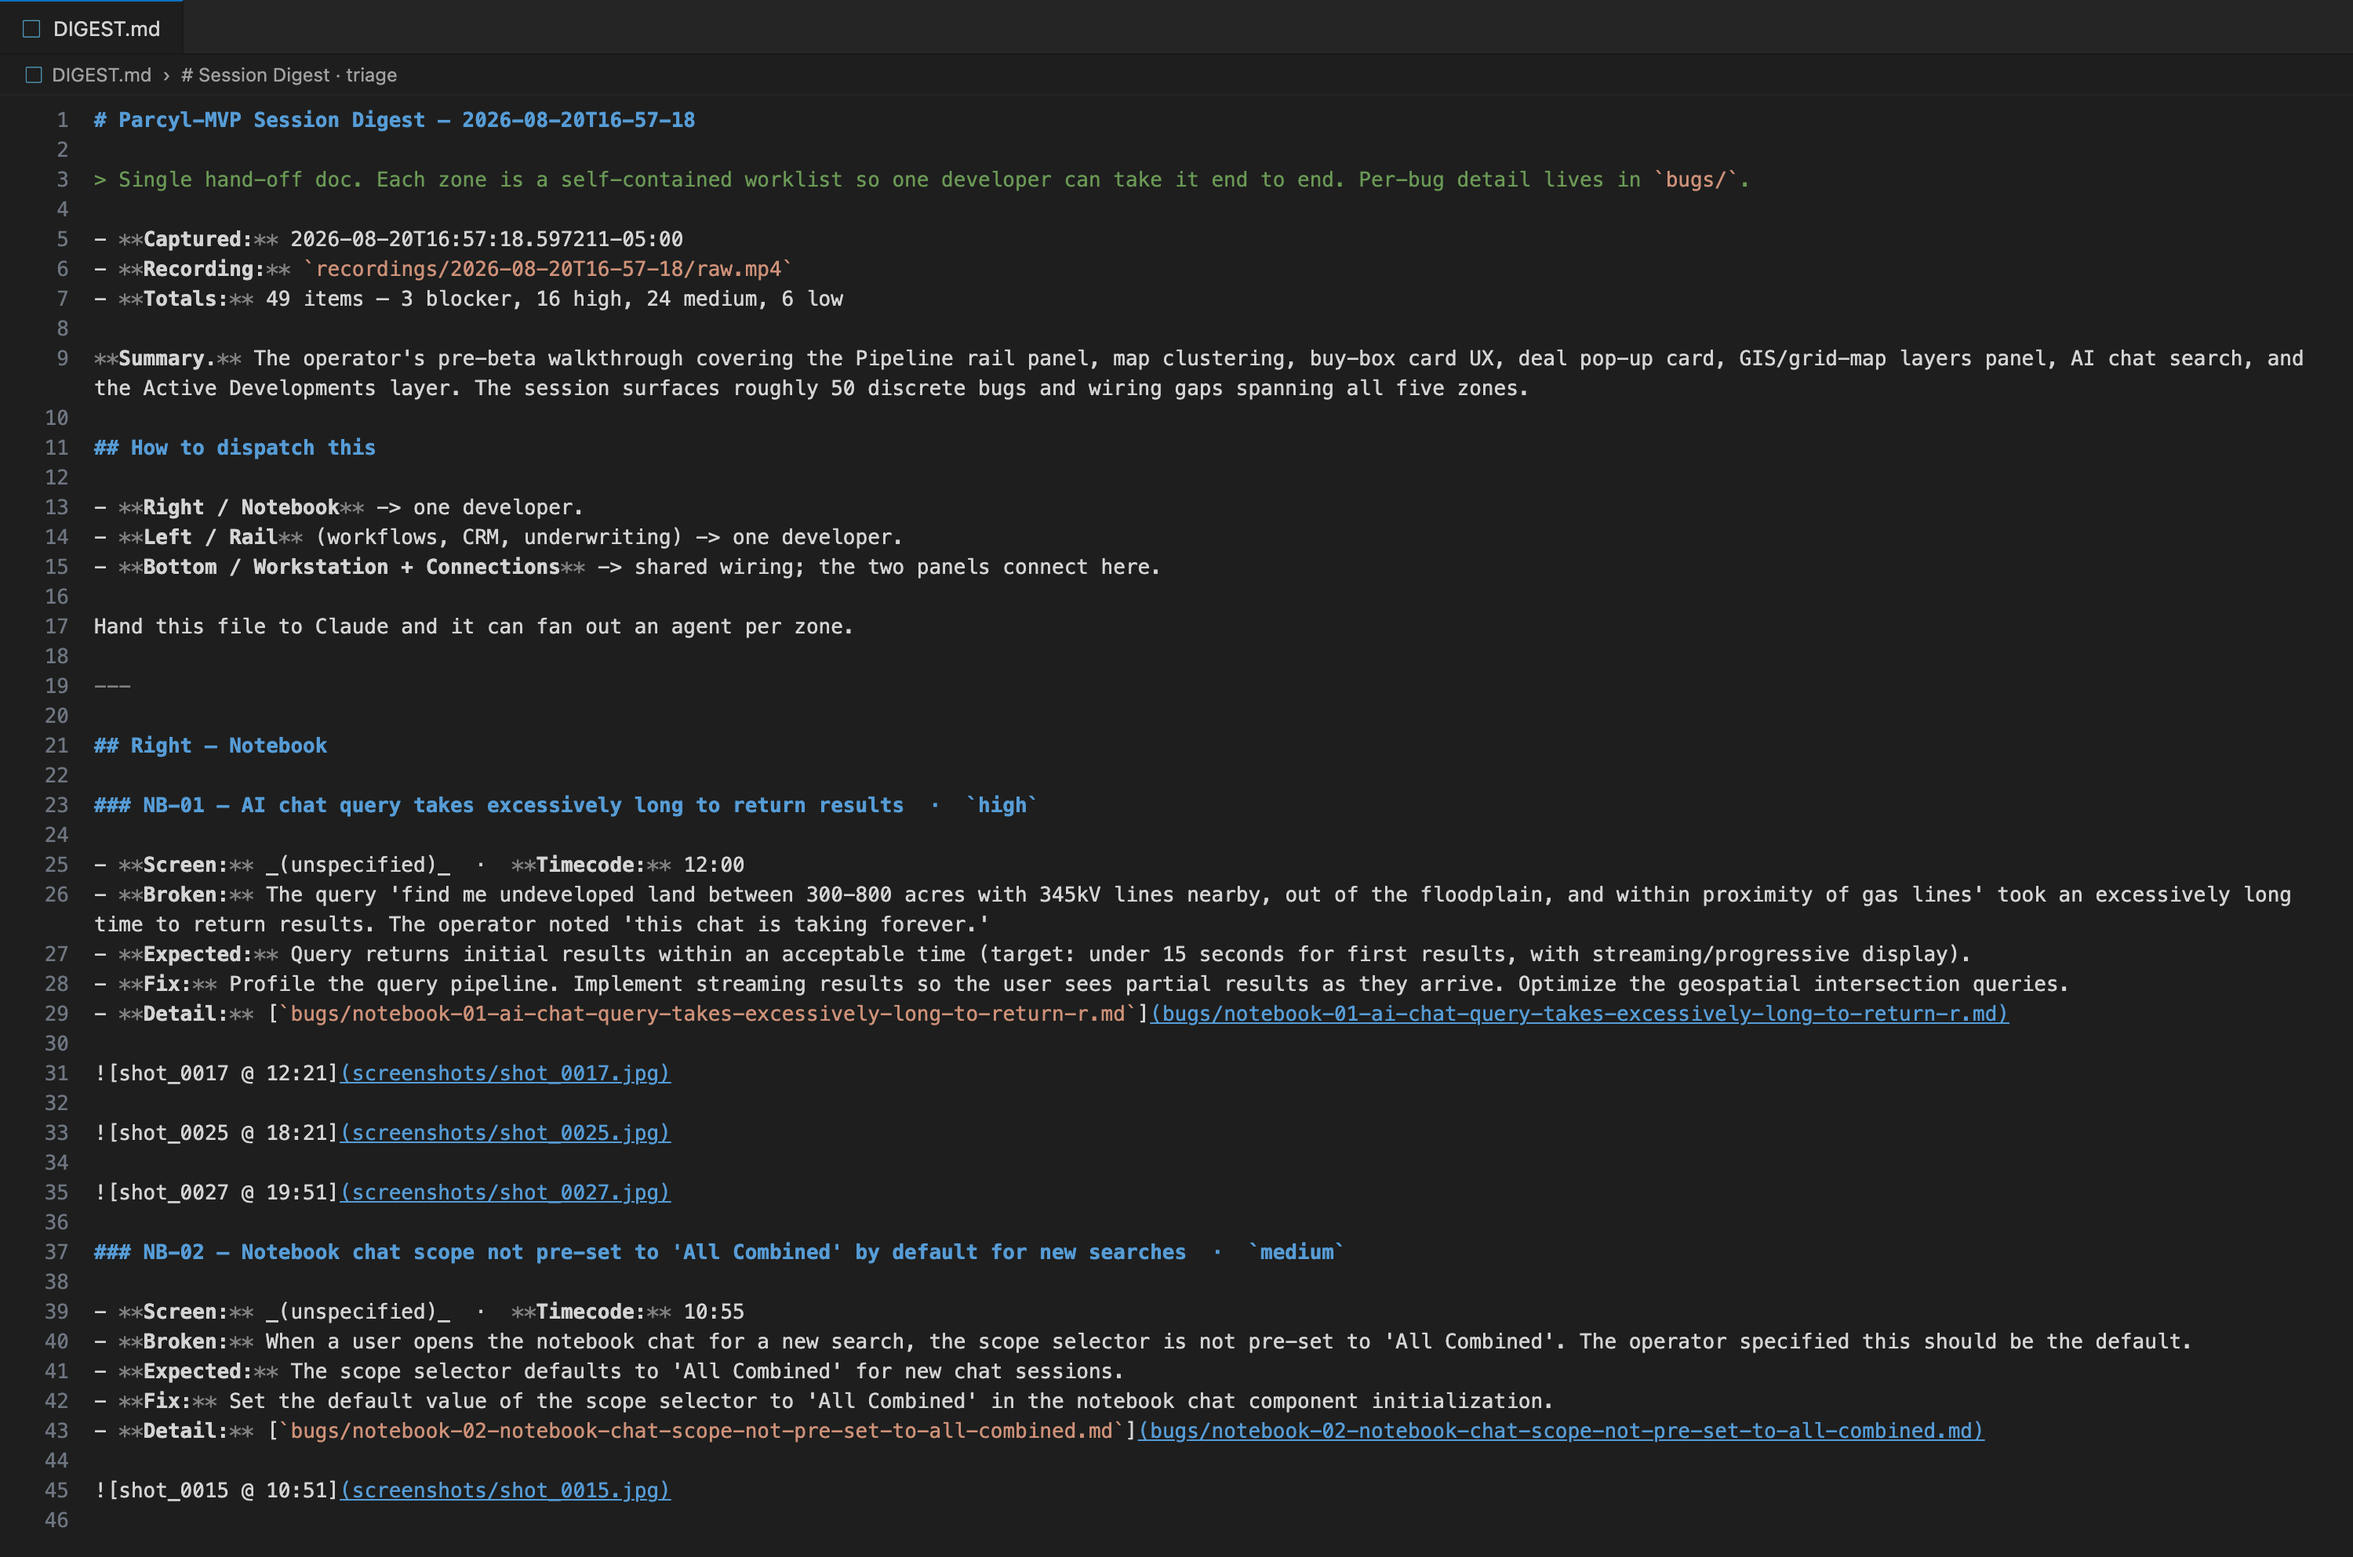
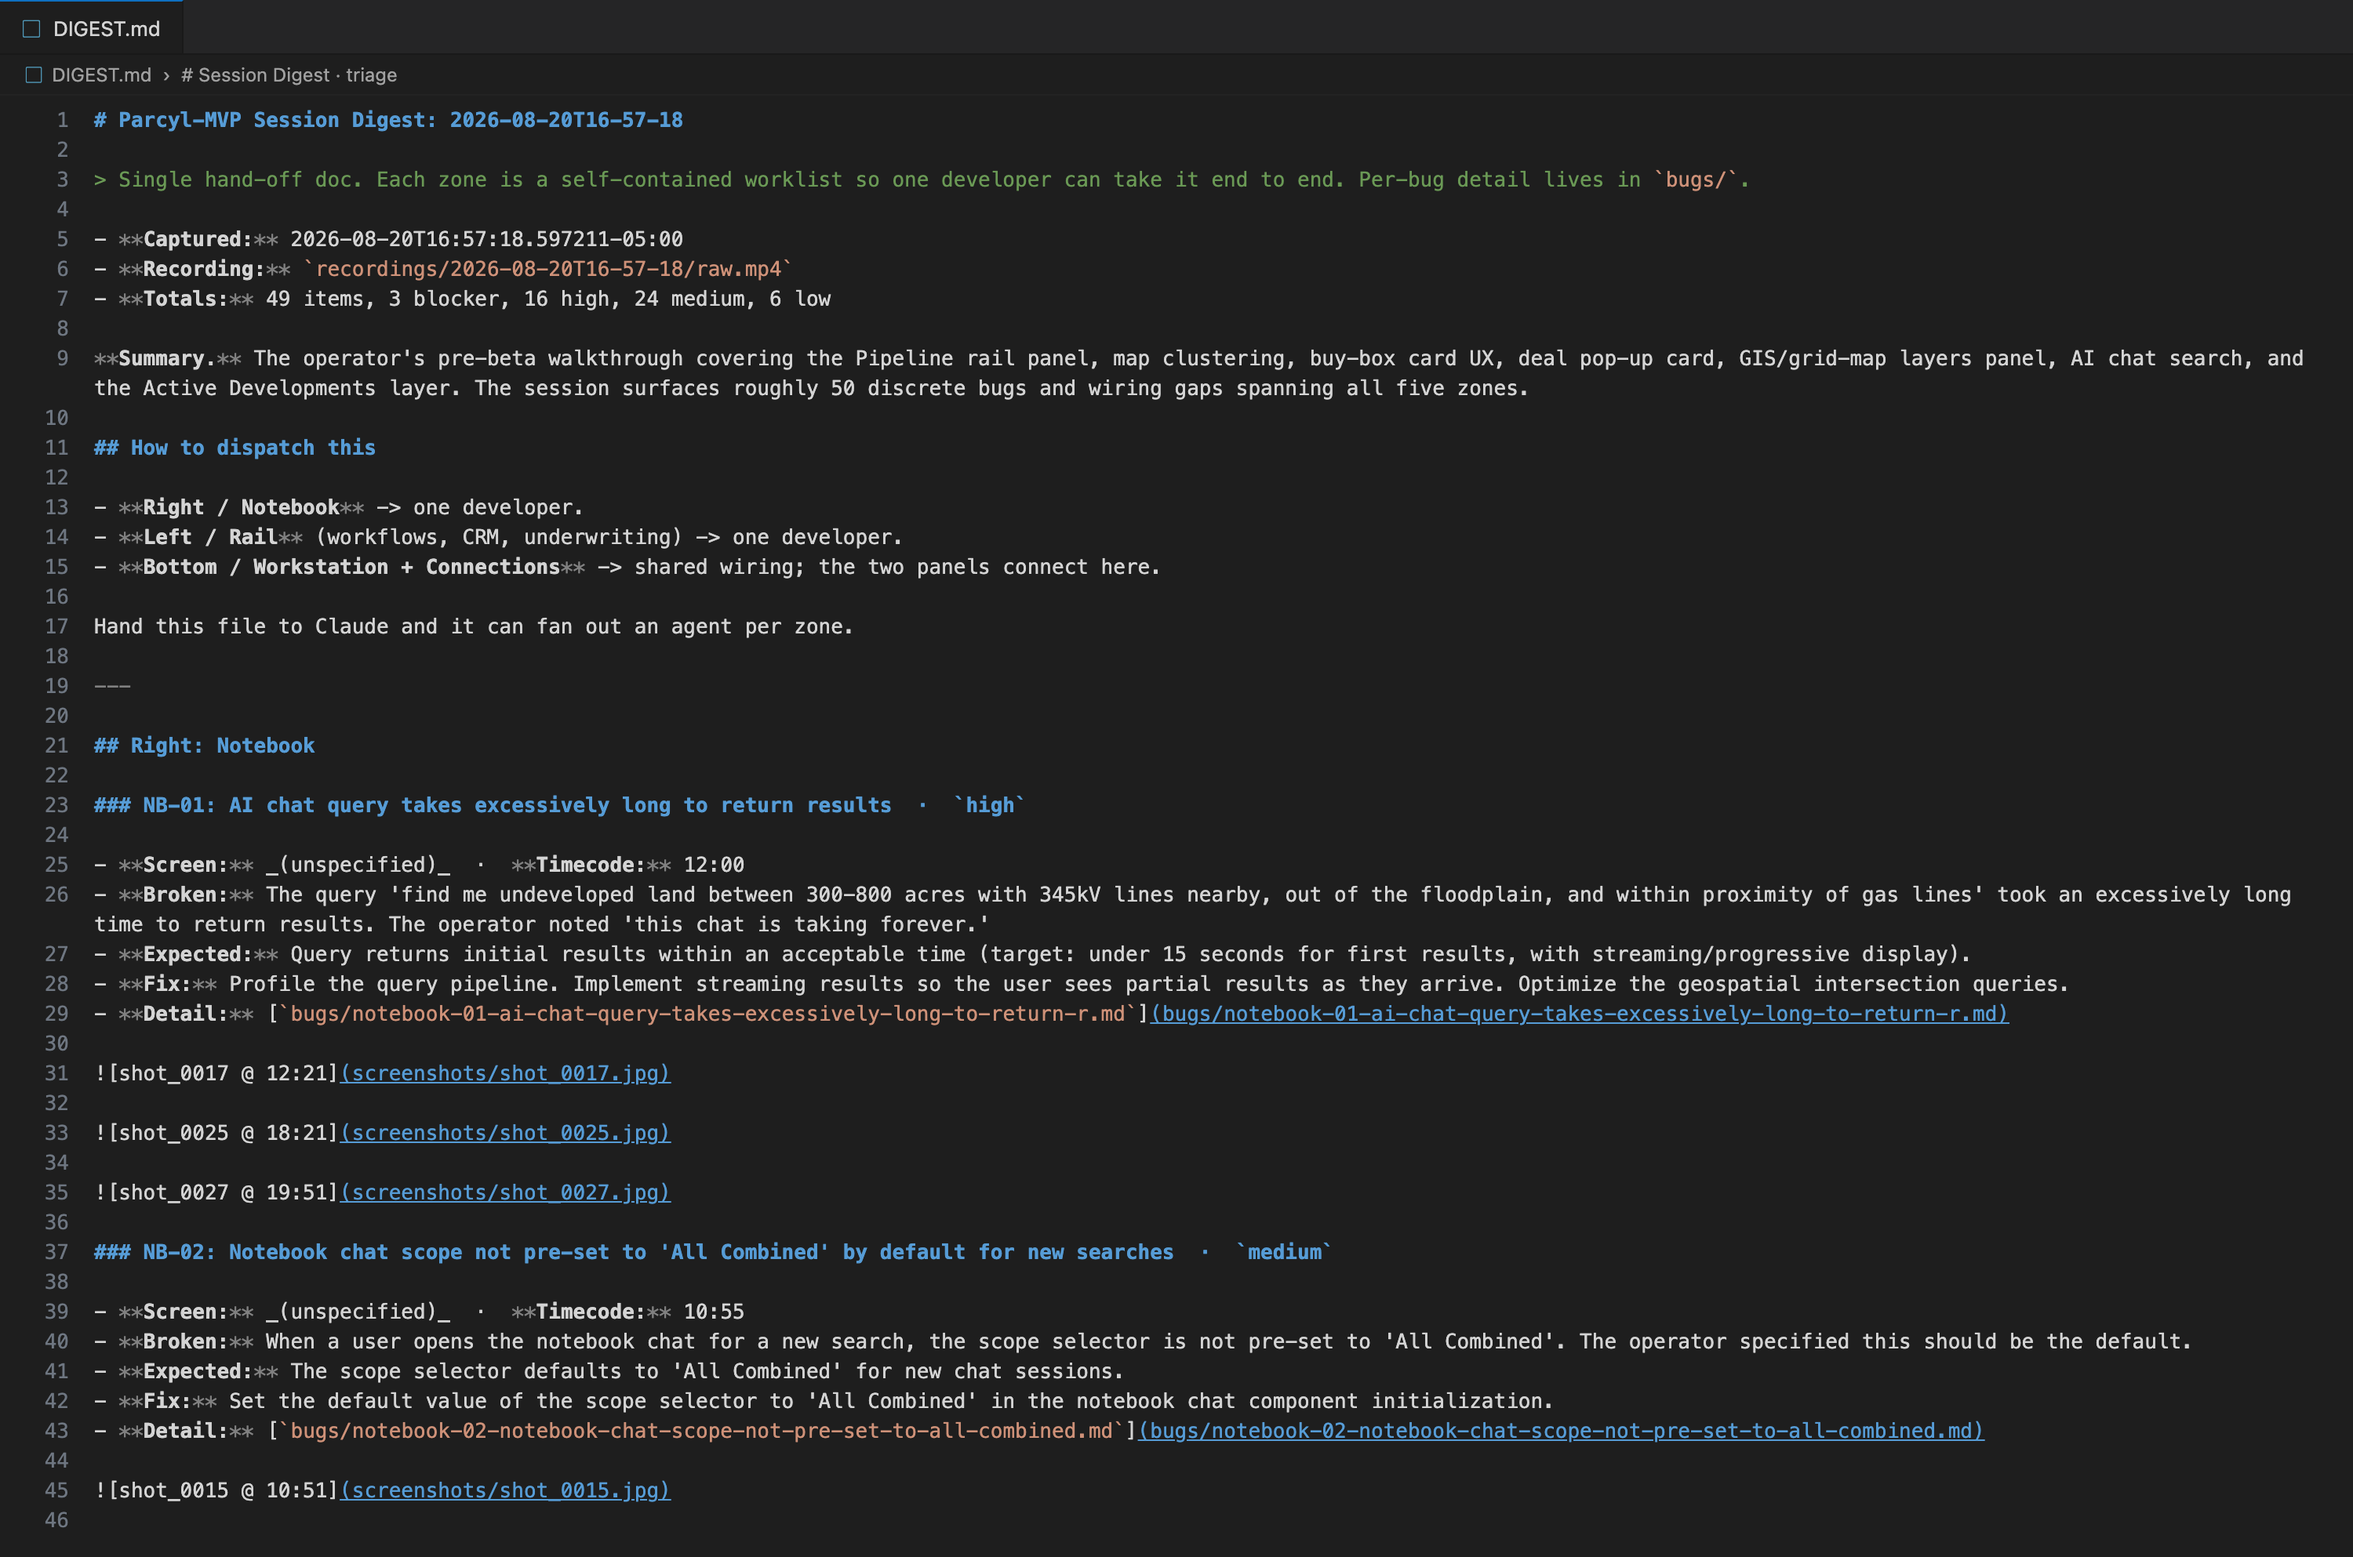
refactor: remove em dashes from generated output (bug/digest/brief format, templates, example labels) + re-render example images; scrub run.js comments

diff --git a/evals/run.js b/evals/run.js
@@ -1,6 +1,6 @@
 #!/usr/bin/env node
 //
-// homebase invariant evals — the shipped product gate.
+// homebase invariant evals: the shipped product gate.
 //
 // Dependency-free Node (stdlib only). Exits non-zero when any invariant is violated, so it
 // can run in the pre-commit gate and in CI regardless of which optional parts of the stack
@@ -267,7 +267,7 @@ function evalLiveSessionNeverProcessed() {
 //
 // The BRAND term (the company name/domain) is forbidden everywhere the PERSONAL rule applies
 // EXCEPT the deliberate branding surfaces: the README credits the project to the company, and
-// LICENSE. Engine code, adapters, and docs still fail on it — a stray brand token there means
+// LICENSE. Engine code, adapters, and docs still fail on it, a stray brand token there means
 // un-scrubbed source, not intentional branding.
 const PERSONAL_EXEMPT_FILES = new Set(['LICENSE'])
 const BRAND_EXEMPT_FILES = new Set(['LICENSE', 'README.md'])

diff --git a/pipeline/doc_generator.py b/pipeline/doc_generator.py
@@ -464,7 +464,7 @@ def assign_bug_ids(bugs: list[dict], cfg: ContextConfig) -> list[dict]:
 
 def render_bug_md(bug: dict, manifest_by_id: dict[str, dict], cfg: ContextConfig) -> str:
     return (
-        f"# {bug['id']} — {bug.get('title', '(untitled)')}\n\n"
+        f"# {bug['id']}: {bug.get('title', '(untitled)')}\n\n"
         f"- **Zone:** {cfg.zone_label.get(bug['zone'], bug['zone'])}\n"
         f"- **Severity:** {bug.get('severity', '')}\n"
         f"- **Screen / location:** {bug.get('screen', '_(unspecified)_')}\n"
@@ -492,7 +492,7 @@ def _counts_line(c: dict[str, int]) -> str:
 
 
 def render_index(session_id: str, bugs: list[dict], cfg: ContextConfig) -> str:
-    lines = [f"# Bug Index — {session_id}\n"]
+    lines = [f"# Bug Index: {session_id}\n"]
     c = _counts(bugs, cfg)
     lines.append(f"{len(bugs)} items: {_counts_line(c)}.\n")
     for zone in cfg.zone_keys:
@@ -519,8 +519,8 @@ def _zone_section(bugs: list[dict], zone: str, manifest_by_id: dict[str, dict]) 
     for b in zone_bugs:
         shots = _screenshot_refs_md(b.get("screenshot_refs", []), manifest_by_id, from_subdir=False)
         blocks.append(
-            f"### {b['id']} — {b.get('title', '')}  ·  `{b.get('severity', '')}`\n\n"
-            f"- **Screen:** {b.get('screen', '_(unspecified)_')}  ·  **Timecode:** {b.get('timecode', '—')}\n"
+            f"### {b['id']}: {b.get('title', '')}  ·  `{b.get('severity', '')}`\n\n"
+            f"- **Screen:** {b.get('screen', '_(unspecified)_')}  ·  **Timecode:** {b.get('timecode', 'n/a')}\n"
             f"- **Broken:** {b.get('what', '')}\n"
             f"- **Expected:** {b.get('expected', '_(not specified)_')}\n"
             f"- **Fix:** {b.get('suggested_fix', '_(none suggested)_')}\n"
@@ -549,12 +549,12 @@ def render_digest(session_id: str, meta: dict, bugs: list[dict], result: dict,
         for z in cfg.zone_keys
     )
     return (
-        f"# {cfg.product_name} — Session Digest — {session_id}\n\n"
+        f"# {cfg.product_name} Session Digest: {session_id}\n\n"
         "> Single hand-off doc. Each zone is a self-contained worklist so one developer can "
         "take it end to end. Per-bug detail lives in `bugs/`.\n\n"
         f"- **Captured:** {captured}\n"
         f"- **Recording:** `{recording}`\n"
-        f"- **Totals:** {len(bugs)} items — {_counts_line(c)}\n\n"
+        f"- **Totals:** {len(bugs)} items, {_counts_line(c)}\n\n"
         + (f"**Summary.** {summary}\n\n" if summary else "")
         + _dispatch_md(cfg) + "\n---\n\n"
         + sections + "\n\n---\n\n"
@@ -578,7 +578,7 @@ def assemble_team_brief(session_dir: Path, cfg: ContextConfig) -> str | None:
         return md.replace("../screenshots/", "screenshots/")
 
     parts: list[str] = []
-    parts.append(f"# {cfg.product_name} — Session Bug & Wiring Brief\n\nSession: `{session_dir.name}`\n")
+    parts.append(f"# {cfg.product_name}: Session Bug & Wiring Brief\n\nSession: `{session_dir.name}`\n")
     parts.append(
         "This is the complete hand-off from a narrated walkthrough. Every bug and every "
         "workflow that needs connecting is below, in full, grouped by the zone it lives in. "

diff --git a/pipeline/tests/test_doc_generator.py b/pipeline/tests/test_doc_generator.py
@@ -17,10 +17,10 @@ import doc_generator as dg
 
 def _cfg(*, zones=None, severities=("blocker", "high", "medium", "low")) -> dg.ContextConfig:
     zones = zones or (
-        dg.Zone(code="NB", key="notebook", label="Right — Notebook"),
-        dg.Zone(code="RL", key="rail", label="Left — Rail"),
-        dg.Zone(code="WS", key="workstation", label="Bottom — Workstation"),
-        dg.Zone(code="CX", key="connections", label="Connections — cross-zone wiring"),
+        dg.Zone(code="NB", key="notebook", label="Right: Notebook"),
+        dg.Zone(code="RL", key="rail", label="Left: Rail"),
+        dg.Zone(code="WS", key="workstation", label="Bottom: Workstation"),
+        dg.Zone(code="CX", key="connections", label="Connections: cross-zone wiring"),
     )
     return dg.ContextConfig(
         product_name="Testware",
@@ -155,7 +155,7 @@ def test_render_index_groups_by_zone():
     cfg = _cfg()
     bugs = dg.assign_bug_ids(_sample_result()["bugs"], cfg)
     idx = dg.render_index("2026-06-25T10-00-00", bugs, cfg)
-    assert "Right — Notebook" in idx and "Left — Rail" in idx and "Connections" in idx
+    assert "Right: Notebook" in idx and "Left: Rail" in idx and "Connections" in idx
     assert "NB-01" in idx and "bugs/notebook-01-" in idx
 
 

diff --git a/templates/handoff-template.md b/templates/handoff-template.md
@@ -1,4 +1,4 @@
-# Claude Code Handoff — [Feature Name]
+# Claude Code Handoff: [Feature Name]
 
 > Auto-generated from `prds/[session-id]/PRD.md`. Paste this into Claude Code in the target project directory. This handoff specs buildable components. It does not prescribe frameworks, files, or function signatures. Design the architecture.
 
@@ -7,7 +7,7 @@
 ## Context
 [One paragraph. The workflow this came from, what it is for, and who uses it. Reference the source recording and PRD by path. State that this specs the buildable components of the workflow and does NOT automate the operator's visual judgment.]
 
-## Target context (grounding — honest)
+## Target context (grounding: honest)
 - Target repo: [name it if one was provided and read; otherwise write "NOT PROVIDED for this session. Every 'what exists' claim below is labeled to investigate, not asserted. When a target repo is named, this section is replaced by a real read of that codebase."]
 - Assumed stack (until confirmed): [the minimum assumptions needed to scope component boundaries, clearly marked as assumptions. If the real stack differs, the component boundaries hold and only the integration glue changes.]
 
@@ -16,7 +16,7 @@
 ## Components to build
 For each component: category, what it does, the operator logic it encodes (with rationale), data contract + integration status, UI/UX behavior, example I/O, acceptance criteria (validation + threshold), and scope.
 
-### C1 — [Component name]
+### C1: [Component name]
 - Category: [ui_ux | data_integration | codifiable_logic | ai_intelligence | open_question]
 - Does: [one sentence]
 - Logic encoded: [the operator rule as an encodable spec, with concrete thresholds/fields]. Rationale: [WHY it holds, in operator reasoning].
@@ -40,7 +40,7 @@ For each component: category, what it does, the operator logic it encodes (with 
 For each visual or experiential judgment the operator made:
 - [Judgment name]: [what the operator infers]. This is genuine [visual/experiential] expertise. v1: [operator-assisted one-click fallback]. Phase 2: [automation approach]. It is a hard error to spec this as a trivial v1 classifier.
 
-## What exists (to investigate — none asserted)
+## What exists (to investigate: none asserted)
 [Bulleted list of every integration/dataset/service the components depend on, each labeled "to investigate" unless a named target repo was read. State how to verify each. Never assert an integration exists without a repo read.]
 
 ## What is missing (the build)

diff --git a/templates/workflow-map-template.md b/templates/workflow-map-template.md
@@ -1,4 +1,4 @@
-# Workflow Map — [Session Title]
+# Workflow Map: [Session Title]
 
 > Auto-generated by the intelligence spine from `recordings/[session-id]/transcript.json` and keyframes. Filed at `recordings/[session-id]/workflow-map.md`. Also linked from the matching folder under `workflows/library/[dynamic-path]/`.
 
@@ -23,7 +23,7 @@ Every application, website, or document touched during the recording. Captured f
 ## Steps
 Numbered operator actions. Each step links to the transcript span and keyframe that proves it happened.
 
-1. [Action] — transcript [start-end], keyframe `keyframes/[name].jpg`
+1. [Action], transcript [start-end], keyframe `keyframes/[name].jpg`
 2. ...
 
 ## Components identified
@@ -36,12 +36,12 @@ The buildable units this workflow decomposes into. Each maps to a component in t
 ## Decisions
 Every point where the operator paused, compared options, or referenced external knowledge. Each carries the heuristic applied and the reasoning behind it.
 
-- [Decision] — heuristic applied: [...] — rationale: [why the rule holds]
+- [Decision], heuristic applied: [...], rationale: [why the rule holds]
 
 ## Operator-assisted judgment
 Visual or experiential calls the operator made that are not trivial to automate. Each carries a v1 operator-assisted fallback.
 
-- [Judgment] — v1 fallback: [one-click operator tag] — Phase 2: [automation path]
+- [Judgment], v1 fallback: [one-click operator tag], Phase 2: [automation path]
 
 ## Data sources
 External datasets, APIs, or documents the operator pulled from.

diff --git a/templates/prd-template.md b/templates/prd-template.md
@@ -1,4 +1,4 @@
-# PRD — [Feature Name]
+# PRD: [Feature Name]
 
 > Auto-generated from session [session-id] on [YYYY-MM-DD]. Source recording: `recordings/[session-id]/raw.mp4`. Workflow map: `recordings/[session-id]/workflow-map.md`. This PRD specs buildable components, not an automation of the operator's visual judgment.
 
@@ -15,7 +15,7 @@ What the operator does manually today, in operator terms. The friction the compo
 ## Components
 Each component is a buildable unit. Carry the full contract through.
 
-### C1 — [Component name]
+### C1: [Component name]
 - Category: [ui_ux | data_integration | codifiable_logic | ai_intelligence | open_question]
 - Does: [one sentence]
 - Encoded logic: [the rule with concrete thresholds/fields]
@@ -27,7 +27,7 @@ Each component is a buildable unit. Carry the full contract through.
   // out { ... }
   ```
 - Acceptance criteria:
-  - [ ] [behavior] — validation: [method] — threshold: [pass bar]
+  - [ ] [behavior], validation: [method], threshold: [pass bar]
 - Scope: [v1 | Phase 2]
 
 ### C2 ... (repeat for every component)

diff --git a/templates/digest-template.md b/templates/digest-template.md
@@ -1,4 +1,4 @@
-# {product_name} — Session Digest — {session_id}
+# {product_name} Session Digest: {session_id}
 
 > Single hand-off doc. Each zone is a self-contained worklist so one developer can take it
 > end to end. Read top to bottom, or jump to your zone. Per-item detail lives in `bugs/`.
@@ -7,7 +7,7 @@
 
 - **Captured:** {captured}
 - **Recording:** `{recording}`
-- **Totals:** {total} items — {severity_counts}
+- **Totals:** {total} items, {severity_counts}
 
 ## How to dispatch this
 

diff --git a/templates/bug-template.md b/templates/bug-template.md
@@ -1,4 +1,4 @@
-# {id} — {title}
+# {id}: {title}
 
 - **Zone:** {zone}
 - **Severity:** {severity}
